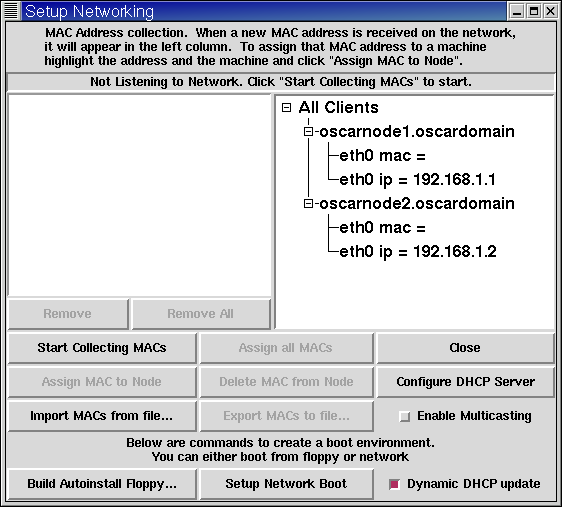
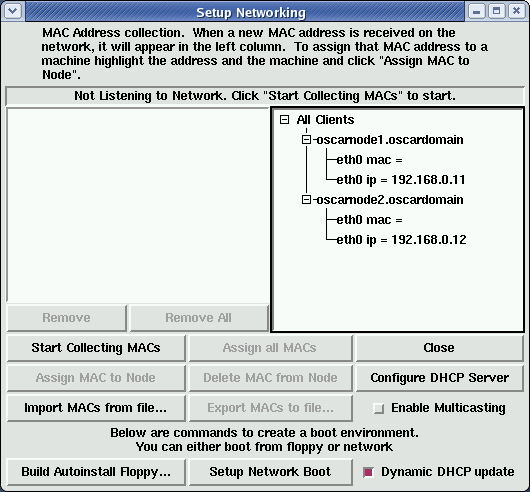
- Screenshots update (taken on FC2 with Gnome desktop) - Changed reference of PBS -> Torque in detailed.tex - Removed sbs-oda-password.png (no longer prompting for password)
git-svn-id: http://svn.oscar.openclustergroup.org/oscar/trunk@3085 18f9d06c-6ae2-0310-8438-938a554feff9

Former-commit-id: c15f4739e6d08b61fe6682ced1b861b064e3b3b8 [formerly 422ab2a26c9dd4e1d2082281e5b12a48d1912b41] [formerly 2c7fc51aae10ae7a3c3e77b8d4b30904c172ee79 [formerly e5351f7a60da5557101e311b06a1f1fc6c5d9db4]]
Former-commit-id: 955025220eff38fdca81e23f2b4c012e9a21cb45 [formerly 6ae97e21a0fde7967dfd760a6f3d4e9cea6f29fd]
Former-commit-id: 878f996e978165e3eb13dcdc74e50d05e6fe67c4

diff --git a/doc/installation/detailed.tex b/doc/installation/detailed.tex
@@ -1172,7 +1172,7 @@ time.
 \label{det:test-cluster}
 
 A simplistic test suite is provided in OSCAR to ensure that the key
-cluster components (OpenSSH, PBS, MPI, PVM, etc.) are functioning
+cluster components (OpenSSH, Torque, MPI, PVM, etc.) are functioning
 properly.
 
 Press the \button{Test Cluster Setup} button. This will open a
@@ -1193,9 +1193,9 @@ checked and then a set of \user{root} and user level tests are run.
     \end{center}
   \end{figure}
 
-  At the beginning of the test, when the PBS server is shut down, you
+  At the beginning of the test, when the Torque server is shut down, you
   may see a benign error message about the \cmd{pbsnodes} command not
-  being able to connect to the PBS server.  This is safe to ignore.
+  being able to connect to the Torque server.  This is safe to ignore.
 
 } % end detail
 
